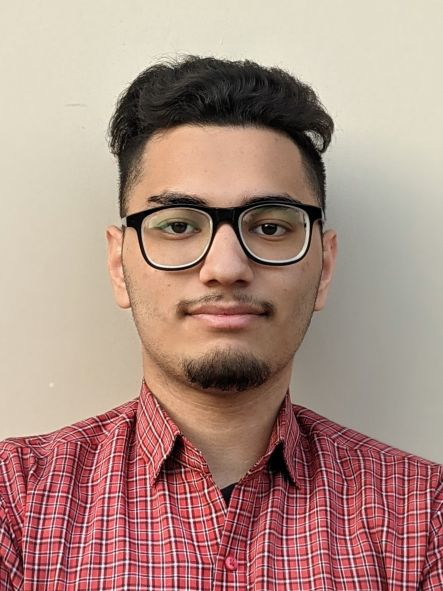
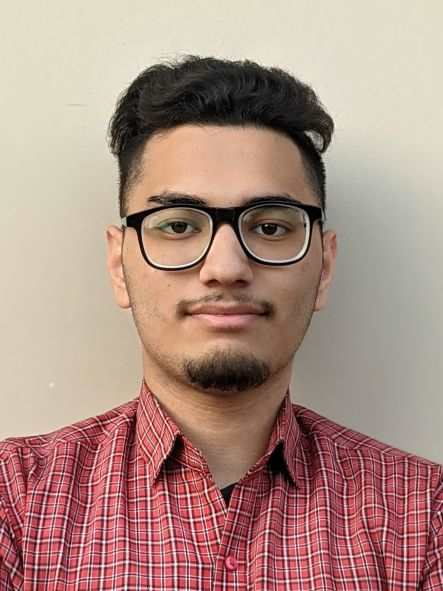
reduced image size

diff --git a/index.html b/index.html
@@ -49,7 +49,7 @@
 
       <div class="profile">
         <!-- <img src="assets/img/profile-img.jpg" alt="" class="img-fluid rounded-circle"> -->
-        <img src="assets/img/profile-img.jpg" alt="" class="img-fluid rounded-circle">
+        <img src="assets/img/testimonials/profile-img.jpg" alt="" class="img-fluid rounded-circle">
 
         <h1 class="text-light"><a href="index.html">Deepankar Sharma</a></h1>
         <div class="social-links mt-3 text-center">
@@ -146,7 +146,7 @@
 
         <div class="row">
           <div class="col-lg-4" data-aos="fade-right">
-            <img src="assets/img/profile-img.jpg" class="img-fluid" alt="">
+            <img src="assets/img/testimonials/profile-img.jpg" class="img-fluid" alt="">
           </div>
           <div class="col-lg-8 pt-4 pt-lg-0 content" data-aos="fade-left">
             <h3>Python, Data Science &amp; Machine Learning Engineer.</h3>
@@ -561,9 +561,9 @@
           </div> -->
           <div class="col-lg-4 col-md-6 portfolio-item filter-kudos">
             <div class="portfolio-wrap">
-              <img src="assets/img/portfolio/CampusGem.jpg" class="img-fluid" alt="">
+              <img src="assets/img/index/CampusGem.jpg" class="img-fluid" alt="">
               <div class="portfolio-links">
-                <a href="assets/img/portfolio/CampusGem.jpg" data-gallery="portfolioGallery" class="portfolio-lightbox"
+                <a href="assets/img/index/CampusGem.jpg" data-gallery="portfolioGallery" class="portfolio-lightbox"
                   title="Campus Gem 2023"><i class="bx bx-plus"></i></a>
                 <a href="portfolio-details-CampusGem.html" title="More Details"><i class="bx bx-link"></i></a>
               </div>
@@ -574,9 +574,9 @@
 
           <div class="col-lg-4 col-md-6 portfolio-item filter-kudos">
             <div class="portfolio-wrap">
-              <img src="assets/img/portfolio/Navikarnam.jpg" class="img-fluid" alt="">
+              <img src="assets/img/index/Navikarnam.jpg" class="img-fluid" alt="">
               <div class="portfolio-links">
-                <a href="assets/img/portfolio/Navikarnam.jpg" data-gallery="portfolioGallery" class="portfolio-lightbox"
+                <a href="assets/img/index/Navikarnam.jpg" data-gallery="portfolioGallery" class="portfolio-lightbox"
                   title="Navikarnam-2023"><i class="bx bx-plus"></i></a>
                 <a href="portfolio-details-Navikarnam.html" title="More Details"><i class="bx bx-link"></i></a>
               </div>
@@ -587,9 +587,9 @@
 
           <div class="col-lg-4 col-md-6 portfolio-item filter-projects">
             <div class="portfolio-wrap">
-              <img src="assets/img/portfolio/MovieRecommendation.jpg" class="img-fluid" alt="">
+              <img src="assets/img/index/MovieRecommendation.jpg" class="img-fluid" alt="">
               <div class="portfolio-links">
-                <a href="assets/img/portfolio/MovieRecommendation.jpg" data-gallery="portfolioGallery"
+                <a href="assets/img/index/MovieRecommendation.jpg" data-gallery="portfolioGallery"
                   class="portfolio-lightbox" title="Movie Recommendation System"><i class="bx bx-plus"></i></a>
                 <a href="portfolio-details-MovieRecommendation.html" title="More Details"><i class="bx bx-link"></i></a>
               </div>
@@ -599,9 +599,9 @@
 
           <div class="col-lg-4 col-md-6 portfolio-item filter-projects">
             <div class="portfolio-wrap">
-              <img src="assets/img/portfolio/Text-Summarization.jpg" class="img-fluid" alt="">
+              <img src="assets/img/index/Text-Summarization.jpg" class="img-fluid" alt="">
               <div class="portfolio-links">
-                <a href="assets/img/portfolio/Text-Summarization.jpg" data-gallery="portfolioGallery"
+                <a href="assets/img/index/Text-Summarization.jpg" data-gallery="portfolioGallery"
                   class="portfolio-lightbox" title="Text Summarizer"><i class="bx bx-plus"></i></a>
                 <a href="portfolio-details-TextSummarization.html" title="More Details"><i class="bx bx-link"></i></a>
               </div>
@@ -615,9 +615,9 @@
 
           <div class="col-lg-4 col-md-6 portfolio-item filter-projects">
             <div class="portfolio-wrap">
-              <img src="assets/img/portfolio/ProductRecommendation.jpg" class="img-fluid" alt="">
+              <img src="assets/img/index/ProductRecommendation.jpg" class="img-fluid" alt="">
               <div class="portfolio-links">
-                <a href="assets/img/portfolio/ProductRecommendation.jpg" data-gallery="portfolioGallery"
+                <a href="assets/img/index/ProductRecommendation.jpg" data-gallery="portfolioGallery"
                   class="portfolio-lightbox" title="Product Recommender System"><i class="bx bx-plus"></i></a>
                 <a href="portfolio-details-ProductRecommendation.html" title="More Details"><i
                     class="bx bx-link"></i></a>
@@ -1020,7 +1020,7 @@
 
                   <i class="bx bxs-quote-alt-right quote-icon-right"></i>
                 </p>
-                <img src="assets/img/testimonials/Vipin.jpeg" class="testimonial-img" alt="">
+                <img src="assets/img/testimonials/Vipin.jpg" class="testimonial-img" alt="">
                 <h3>Vipin Kumar</h3>
                 <h4>BCA, GEHU-Haldwani</h4>
               </div>
